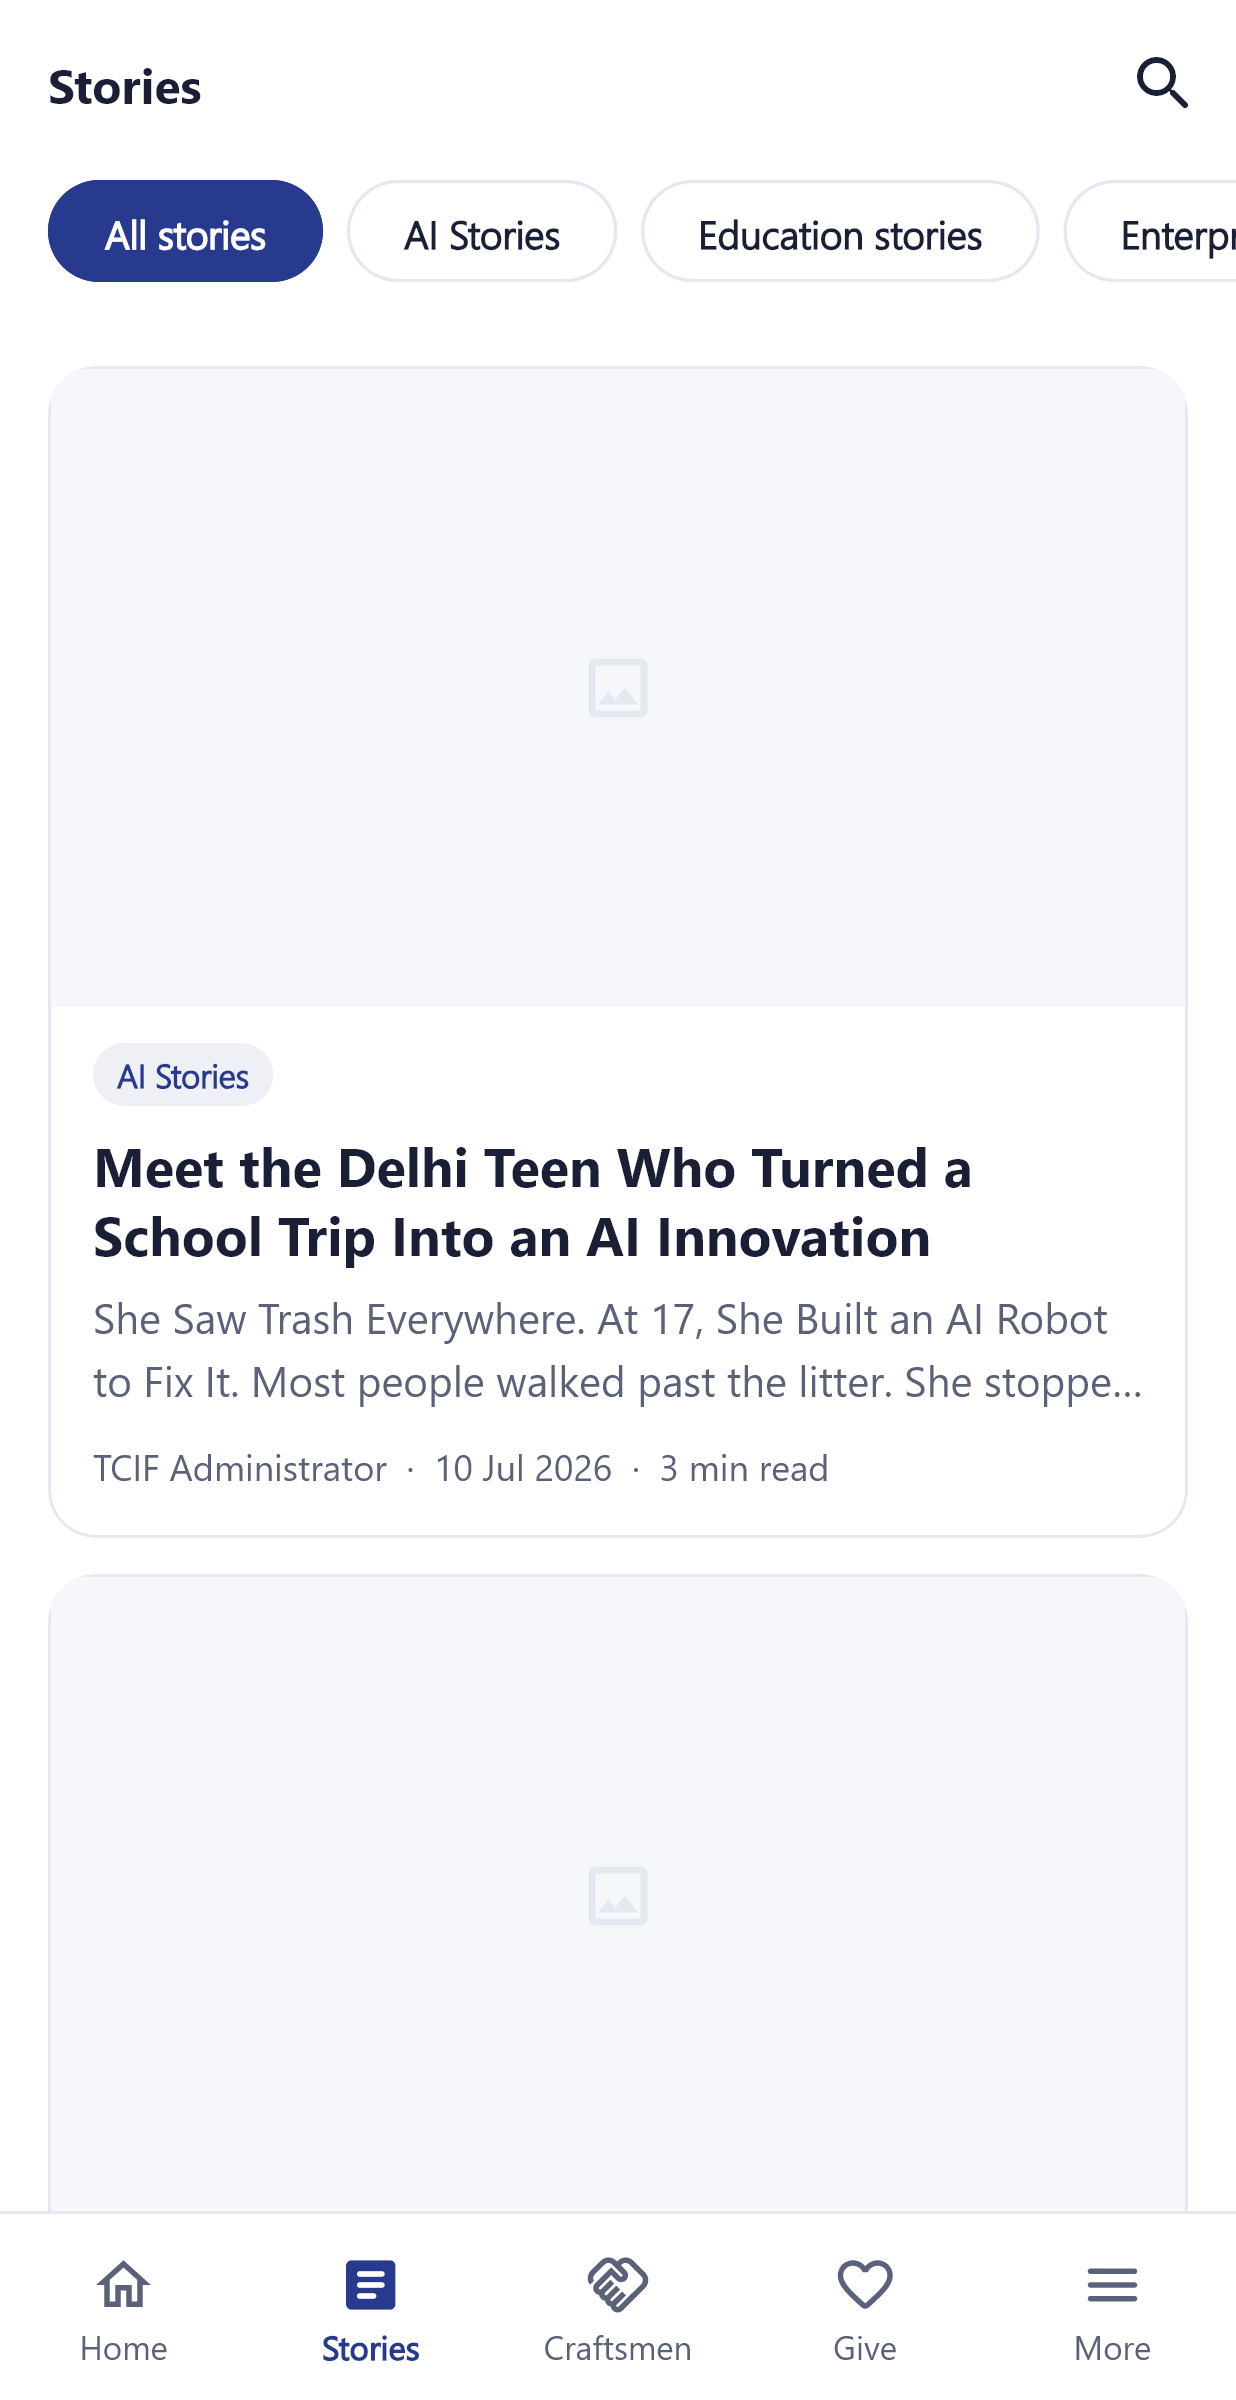
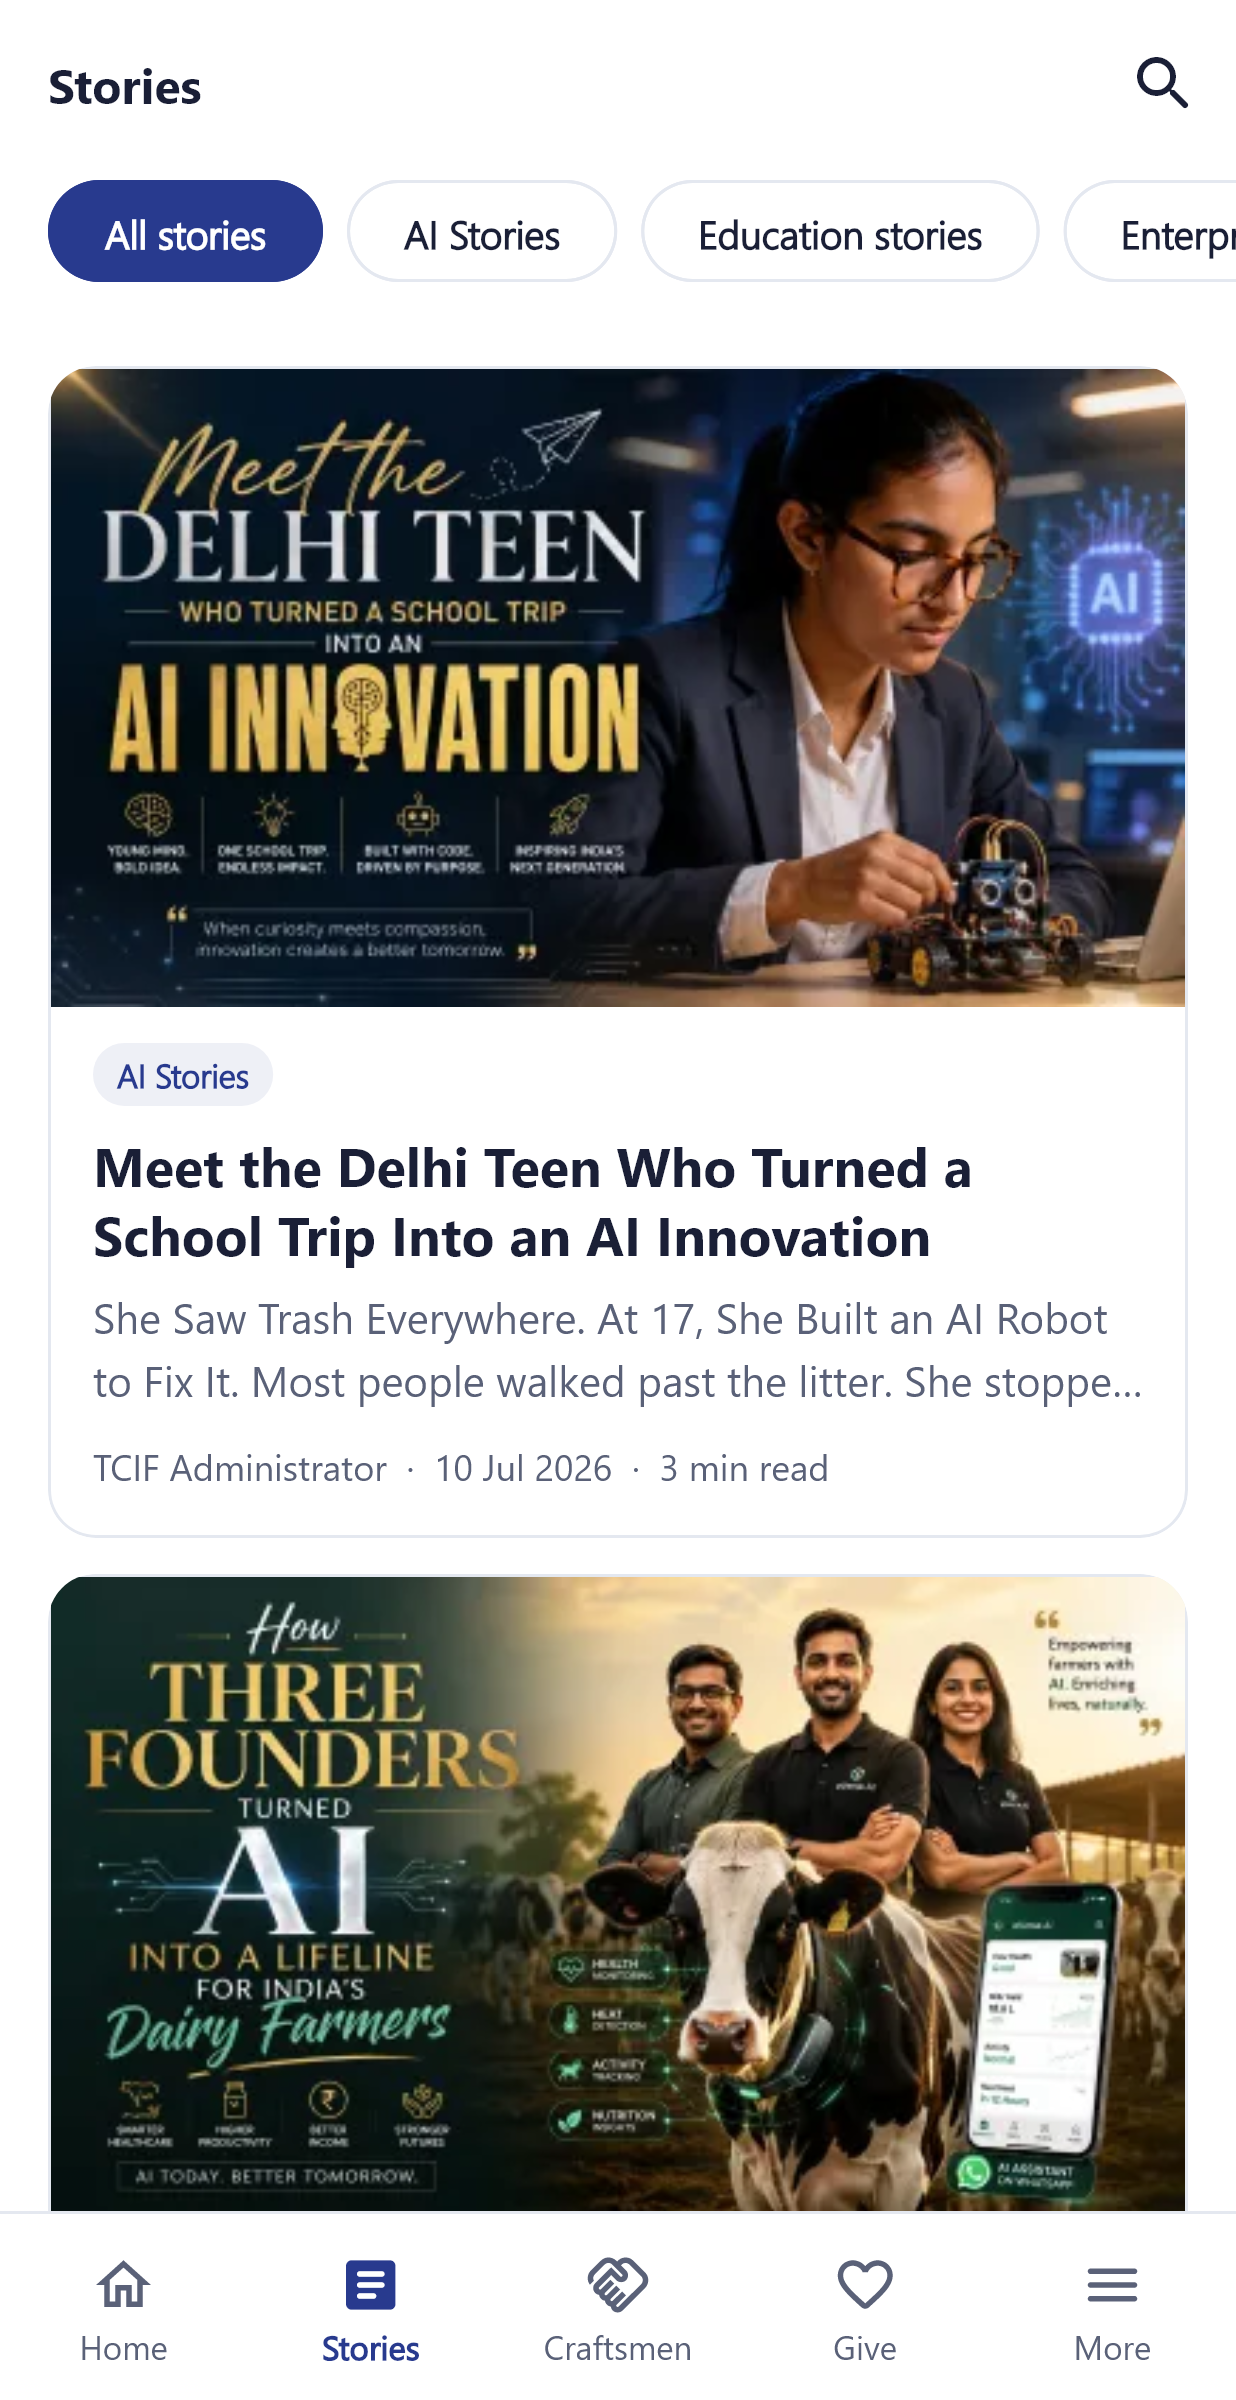
Put real photographs in the screenshots
Every image rendered as the placeholder. Under `flutter test` there is no
path_provider, so CachedNetworkImage's cache manager fails before it ever
reaches the network — and it fails quietly, into the widget's own error state,
which looks exactly like an image that has not arrived yet.

The harness now collects every image URL the snapshot references, downloads
them in setUpAll where the async zone is real, and serves them from memory
through a provider hook on AppImage. 53 of 53 load.

Sequentially, not concurrently: a few dozen requests fired at once at one
shared-hosting box comes back as a handful of timeouts and a screenshot full of
holes.

The hook is the one piece of production code that exists for the harness. The
alternative is faking path_provider and an HTTP client deep enough to satisfy
flutter_cache_manager, which is a great deal more machinery for the same
picture on the screen.

This matters beyond tidiness — these are the Play Store listing screenshots,
and grey panels where the photography should be is not a listing anybody
installs from.

diff --git a/tool/screenshots.dart b/tool/screenshots.dart
@@ -1,4 +1,5 @@
 import 'dart:io';
+import 'dart:typed_data';
 import 'dart:ui' as ui;
 
 import 'package:flutter/material.dart';
@@ -20,6 +21,7 @@ import 'package:takecare_connect/core/models/site.dart';
 import 'package:takecare_connect/core/router/app_router.dart';
 import 'package:takecare_connect/core/router/route_names.dart';
 import 'package:takecare_connect/core/theme/app_theme.dart';
+import 'package:takecare_connect/core/widgets/app_image.dart';
 
 /// Renders every screen against the **live** API and writes a PNG per screen.
 ///
@@ -65,7 +67,24 @@ void main() {
     // section that renders blank because a key was renamed, not just a widget
     // that lays out.
     snapshot = await _Snapshot.fetch();
+
+    // The photographs, fetched here for the same reason the data is: under
+    // `flutter test` there is no path_provider, so CachedNetworkImage's cache
+    // manager fails before it reaches the network and every image renders as
+    // the placeholder. Pre-downloading them and serving from memory is what
+    // puts real pictures in the store screenshots.
+    await _loadImages(snapshot);
+
+    // ignore: invalid_use_of_visible_for_testing_member
+    AppImage.providerOverride = (url) {
+      final bytes = _images[url];
+
+      return bytes == null ? null : MemoryImage(bytes);
+    };
   });
+
+  // ignore: invalid_use_of_visible_for_testing_member
+  tearDownAll(() => AppImage.providerOverride = null);
 
   setUp(() async => _loadFonts());
 
@@ -128,6 +147,89 @@ void main() {
       await _capture(tester, '${screen.dir}/${screen.file}.png', screen.pixelRatio);
     });
   }
+}
+
+/// Every photograph the snapshot references, by URL.
+final _images = <String, Uint8List>{};
+
+/// Downloads them once, in the real async zone setUpAll runs in.
+Future<void> _loadImages(_Snapshot s) async {
+  final urls = <String>{};
+
+  void add(String? url) {
+    if (url != null && url.startsWith('http')) urls.add(url);
+  }
+
+  for (final b in s.home.banners) {
+    add(b.bestImage);
+  }
+  for (final p in [...s.home.featuredStories, ...s.posts.items, ...s.trending]) {
+    add(p.thumbnail);
+  }
+  for (final c in s.home.categorySections) {
+    for (final p in c.posts) {
+      add(p.thumbnail);
+    }
+  }
+  for (final b in [...s.home.featuredCraftsmen, ...s.businesses.items]) {
+    add(b.thumbnail);
+  }
+  for (final c in [...s.home.activeCampaigns, ...s.campaigns.items]) {
+    add(c.image);
+  }
+  for (final g in s.galleries.items) {
+    add(g.cover);
+  }
+  for (final section in s.press) {
+    for (final item in section.items) {
+      add(item.image);
+    }
+  }
+  for (final p in s.postDetails.values) {
+    add(p.image);
+  }
+  for (final b in s.businessDetails.values) {
+    for (final photo in b.gallery) {
+      add(photo.url);
+    }
+  }
+  for (final c in s.campaignDetails.values) {
+    add(c.image);
+  }
+  for (final g in s.galleryDetails.values) {
+    for (final photo in g.photos) {
+      add(photo.url);
+    }
+  }
+  for (final a in s.authors.values) {
+    add(a.avatar);
+  }
+
+  final client = HttpClient()..connectionTimeout = const Duration(seconds: 20);
+  var failed = 0;
+
+  // Sequential on purpose: a few dozen images against one shared-hosting box,
+  // fired all at once, is how you get half of them back as timeouts.
+  for (final url in urls) {
+    try {
+      final response = await (await client.getUrl(Uri.parse(url))).close();
+      if (response.statusCode == 200) {
+        _images[url] = Uint8List.fromList(
+          await response.fold<List<int>>([], (a, b) => a..addAll(b)),
+        );
+      } else {
+        failed++;
+      }
+    } catch (_) {
+      failed++;
+    }
+  }
+
+  client.close();
+
+  // ignore: avoid_print
+  print('images: ${_images.length} of ${urls.length} loaded'
+      '${failed > 0 ? ', $failed failed' : ''}');
 }
 
 /// Waits for live data and images by alternating real time with pumps.

diff --git a/lib/core/widgets/app_image.dart b/lib/core/widgets/app_image.dart
@@ -36,6 +36,19 @@ class AppImage extends StatelessWidget {
   final BoxFit fit;
   final String? semanticLabel;
 
+  /// Swaps the image source out, for `tool/screenshots.dart` only.
+  ///
+  /// Under `flutter test` there is no path_provider, so CachedNetworkImage's
+  /// cache manager fails before it ever reaches the network and every
+  /// photograph renders as the placeholder. Store screenshots full of grey
+  /// panels are worse than useless, so the harness pre-downloads the images in
+  /// a real async zone and hands them back from memory through this hook.
+  ///
+  /// Null in the app, always. It exists because the alternative — faking
+  /// path_provider and an HTTP client deep enough to satisfy the cache manager
+  /// — is far more machinery to get the same picture on the screen.
+  static ImageProvider? Function(String url)? providerOverride;
+
   @override
   Widget build(BuildContext context) {
     Widget child = LayoutBuilder(
@@ -44,6 +57,16 @@ class AppImage extends StatelessWidget {
 
         final dpr = MediaQuery.devicePixelRatioOf(context);
         final width = constraints.maxWidth.isFinite ? constraints.maxWidth : 800.0;
+
+        final override = providerOverride?.call(url!);
+
+        if (override != null) {
+          return Image(
+            image: override,
+            fit: fit,
+            errorBuilder: (_, __, ___) => const _Placeholder(failed: true),
+          );
+        }
 
         return CachedNetworkImage(
           imageUrl: url!,
